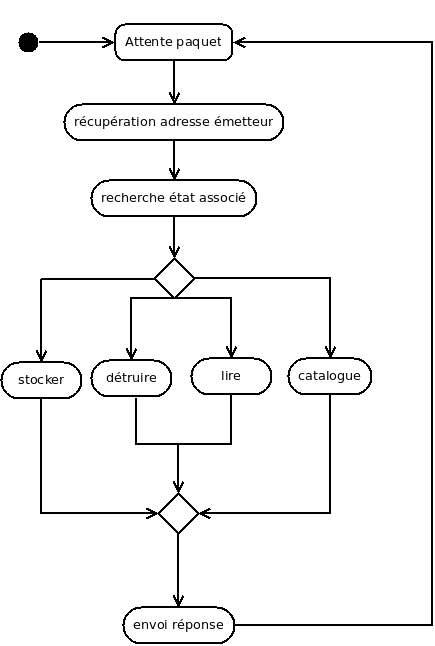
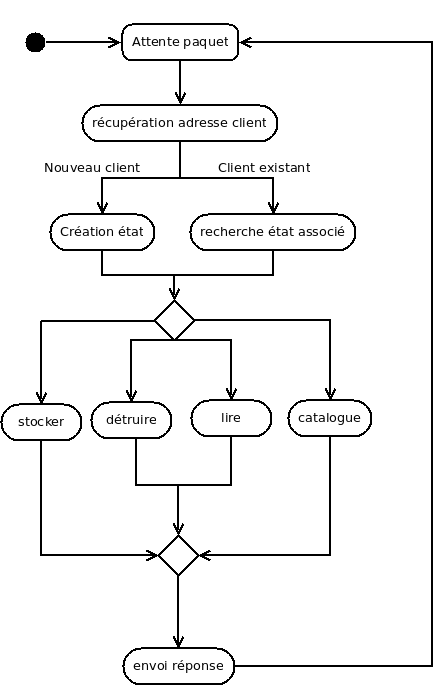
presentation

diff --git a/docs/reseau.tex b/docs/reseau.tex
@@ -82,6 +82,8 @@ Le client démarre par la commande
 \begin{center}
 \fbox{./PRAK server xxxx}
 \end{center}avec xxxx, un port libre sur la machine courante. 
+
+\textit{Il faut démarrer chaque serveur dans un \textbf{dossier différent}, afin que chacun est ses propres fichiers, et afin d'éviter tout comportement indésirable.}
 \subsection{Liste des commandes clients}
 
 \subsubsection{catalogue}
@@ -165,11 +167,11 @@ Des paramètres peuvent être omis.
 \end{itemize}
 
 \subsection{CONNECTRA : Requête de connexion d'un client à un serveur}
-Ce protocole très simple permet de signifier à un serveur qu'on souhaite entamer une transaction avec lui.
+Ce protocole très simple permet de signifier à un serveur qu'on souhaite entamer une transaction avec le serveur.
 Le client envoie \textbf{dg(0,0,)}. Le serveur répond \textbf{dg(0,1,)}.
 
 \subsection{DISCONNECTRA : Requête de déconnexion d'un client à un serveur}
-Ce protocole très simple permet de signifier à un serveur qu'on souhaite mettre un terme à une transaction avec lui.
+Ce protocole très simple permet de signifier à un serveur qu'on souhaite mettre un terme à une transaction avec le serveur.
 Le client envoie \textbf{dg(1,1,)}. Le serveur répond \textbf{dg(1,0,)}.
 
 \subsection{DOWNLOAD : Récupération d'un fichier présent sur le serveur}
@@ -177,7 +179,7 @@ Pour initier la transaction, le client envoie le paquet \textbf{dg(2,0,nom du fi
 Les réponses possibles sont :
 \begin{itemize}
  \item \textbf{dg(2,2,)} : Le fichier est dans la librairie et est disponible sur le serveur.
- \item \textbf{dg(2,1,)} : Le fichier est dans la librairie masi n'est pas disponible sur le serveur.
+ \item \textbf{dg(2,1,)} : Le fichier est dans la librairie mais n'est pas disponible sur le serveur.
  \item \textbf{dg(2,0,)} : Le fichier n'est pas dans la bibliotèque
 \end{itemize}
 
@@ -200,6 +202,12 @@ Un paquet de longueur inférieur à 512 signifie la fin de la transaction. \text
 
 \subsubsection{Motivation des choix}
 On pourrait d'abord penser que le transfert de fichier se fait de manière symétrique de client à serveur et de serveur à client. Mais celà impliquerai que le serveur devienne ``actif'', et qu'il gère lui aussi des timeouts.
+
+\begin{figure}[H]
+ \centering
+ \includegraphics[width=7cm]{Diagramme6}
+ \caption{Représentation schématique du protocole UPLOAD}
+\end{figure}
 
 \subsection{ADD : ajout d'un fichier à la bibliotèque}
 Afin d'ajouter un fichier à la bibliotèque, le client envoie deux paquets contenant respectivement le nom du fichier et son titre (\textbf{dg(4,0,nom du fichier)} et \textbf{dg(4,1,titre du fichier)}).
@@ -252,22 +260,32 @@ Dans certains cas, comme lorsque un serveur devient dépositaire d'un nouveau fi
 \newpage
 \subsection{Serveur à état} \label{sec:etat}
 Un serveur sans état (stateless) est un serveur qui traite chaque requête indépendamment des précédentes. L'inconvénient est que chaque transaction doit contenir plus d'informations.\\
-Par opposition, un serveur à état (statefull) conserve une trace des transactions en cours. L'implémentation est plus complexe, mais les transactions sont plus légères. Le choix de protocole qui a été fait oblige l'implémentation d'un serveur à état. Il faut cependant être très attentif aux débuts et fin de transactions, car des déconnexion ``sauvages'' du client peuvent arrivés, et le serveur doit toujours rester dans un état cohérent.\\
+Par opposition, un serveur à état (statefull) conserve une trace des transactions en cours. L'implémentation est plus complexe, mais les transactions sont plus légères. Le choix de protocole qui a été fait oblige l'implémentation d'un serveur à état.
+Il faut cependant être très attentif aux débuts et fin de transactions, car des déconnexion ``sauvages'' du client peuvent arrivées, et le serveur doit toujours rester dans un état cohérent.\\
 
 La connaissance d'un paquet et de son émetteur permettront de déterminer une réponse unique à renvoyer. Ceci est traduit dans la structure addr\_map, qui relie un émetteur à son état.
 
 \begin{figure}[H]
  \centering
  \includegraphics[width=8cm]{Diagramme3}
- \caption{Diagramme état/transition du serveur}
+ \caption{Diagramme de fonctionnement du serveur}
 \end{figure}
 
 \subsection{Division en 3 couches}
-
+L'application peut-être divisée en trois couches. En partant de la couche communication, qui encapsule toute la gestion des sockets, à la couche application, de plus haut niveau.
+Chaque couche fait appel aux services offerts par la couche inférieur.
+\begin{figure}[H]
+ \centering
+ \includegraphics[width=8cm]{Diagramme4}
+ \caption{Séparation des couches dans la classe client}
+\end{figure}
 \subsubsection{Couche communication} \label{sec:communication}
+Cette couche est relative à l'ensemble des tâches liées à la gestion des sockets et des adresses. Elle contient notamment la classe \textbf{AddrStorage} qui permet d'unifier le fonctionnement IPv4 et IPv6.
+Cette couche contient également les méthodes du type \textbf{receive} et \textbf{send} des classes \textbf{Client} et \textbf{Server}. lEs constructeurs de ces deux dernières classes peuvent aussi être considéré dans cette couche, puisqu'ils déclarent les sockets. La méthode \textbf{run} du serveur quand a elle permet d'écouter sur les sockets, et fait donc partie de cette couche.
 \subsubsection{Couche protocole}
+Le contenu de cette couche est très simple à délimiter : elle contient tout les protocoles d'échanges (connexion, fichiers et bibliotèque).
 \subsubsection{Couche application}
-
+Les services offerts par cette couche sont ceux que l'utilisateur voit le plus directement : \textbf{get\_file} (lire), \textbf{send\_file} (stocker), \textbf{remove\_file} (détruire), \textbf{get\_library} (catalogue).
 
 
 \end{document}

diff --git a/src/AddrStorage.hpp b/src/AddrStorage.hpp
@@ -13,7 +13,6 @@ class AddrStorage
 	AddrStorage(); //From Server side : client adress (part 1)
 	void build(int s); //From Server side : client address (part 2)
 
-	//AddrStorage(struct sockaddr *addr, int s); //From Server side : client address
 	AddrStorage(string addr, string port); //From Client side : server address
 	AddrStorage(const AddrStorage &as); //copy constructor
 	AddrStorage & operator=(const AddrStorage &as); //assignement operator
